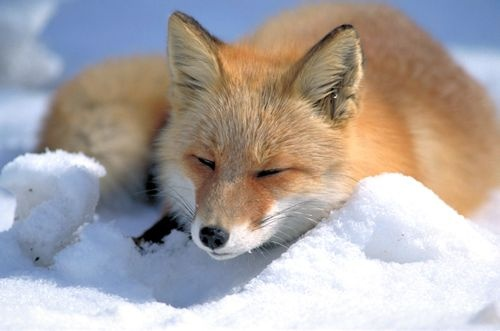
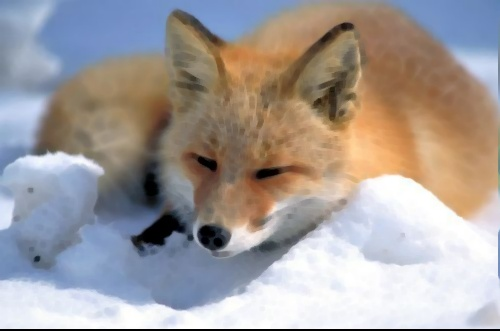
finished multi-threading!

diff --git a/ppfis.h b/ppfis.h
@@ -100,6 +100,11 @@ namespace ppfis
         int m_image_width = -1, m_image_height = -1;
 
         static void operate_per_pixel_thread(pixel* image, int image_width, void (*per_pixel_func)(pixel&), int left, int right, int top, int bottom);
+        static void operate_per_pixel_thread(mask* m, pixel* new_image, void (*per_pixel_func)(pixels&, pixel&), int left, int right, int top, int bottom);
+        template <typename ... parameters>
+        static void operate_per_pixel_thread(pixel* image, int image_width, void (*per_pixel_func)(pixel&, parameters ... params), int left, int right, int top, int bottom, parameters ... params);
+        template <typename ... parameters>
+        static void operate_per_pixel_thread(mask* m, pixel* new_image, void (*per_pixel_func)(pixels&, pixel&, parameters ... params), int left, int right, int top, int bottom, parameters ... params);
 
         friend pixels;
         friend row_pixels;
@@ -169,6 +174,41 @@ namespace ppfis
                 per_pixel_func(image[c * image_width + r]);
     }
 
+    inline void mask::operate_per_pixel_thread(mask* m, pixel* new_image, void (*per_pixel_func)(pixels&, pixel&), int left, int right, int top, int bottom)
+    {
+        pixels op;
+        op.m_mask_ptr = m;
+        for (int c = top; c < bottom; ++c)
+            for (int r = left; r < right; ++r)
+            {
+                op.m_current_column = c;
+                op.m_current_row = r;
+                per_pixel_func(op, new_image[c * m->m_image_width + r]);
+            }
+    }
+
+    template <typename ... parameters>
+    inline void mask::operate_per_pixel_thread(pixel* image, int image_width, void (*per_pixel_func)(pixel&, parameters ...), int left, int right, int top, int bottom, parameters ... params)
+    {
+        for (int c = top; c < bottom; ++c)
+            for (int r = left; r < right; ++r)
+                per_pixel_func(image[c * image_width + r], params...);
+    }
+
+    template <typename ... parameters>
+    inline void mask::operate_per_pixel_thread(mask* m, pixel* new_image, void (*per_pixel_func)(pixels&, pixel&, parameters ...), int left, int right, int top, int bottom, parameters ... params)
+    {
+        pixels op;
+        op.m_mask_ptr = m;
+        for (int c = top; c < bottom; ++c)
+            for (int r = left; r < right; ++r)
+            {
+                op.m_current_column = c;
+                op.m_current_row = r;
+                per_pixel_func(op, new_image[c * m->m_image_width + r], params...);
+            }
+    }
+
     inline mask::mask(uchar** image_ptr, int image_width, int image_height) : m_image_ptr(image_ptr), m_image_width(image_height), m_image_height(image_width)
     {
         border_left = 0;
@@ -235,15 +275,17 @@ namespace ppfis
         int bottom = std::min(std::max(border_top, border_bottom), m_image_height);
         int top = std::max(std::min(border_top, bottom), 0);
 
-        pixels op;
-        op.m_mask_ptr = this;
-        for (int c = top; c < bottom; ++c)
-            for (int r = left; r < right; ++r)
-            {
-                op.m_current_column = c;
-                op.m_current_row = r;
-                per_pixel_func(op, new_image[c * m_image_width + r]);
-            }
+        simple_thread<m_mask_maximum_thread, mask*, pixel*, void (*)(pixels&, pixel&), int, int, int, int> t(mask::operate_per_pixel_thread);
+
+        // estimate thread count
+        int concurrent_operation_count = bottom - top > m_mask_maximum_thread + 1 ? m_mask_maximum_thread + 1 : 1;
+        int height_per_thread = (bottom - top) / concurrent_operation_count;
+
+        // run threads
+        for (int i = 0; i < concurrent_operation_count - 1; ++i)
+            t.run(this, new_image, per_pixel_func, left, right, top + height_per_thread * i, top + height_per_thread * (i + 1));
+        operate_per_pixel_thread(this, new_image, per_pixel_func, left, right, top + height_per_thread * (concurrent_operation_count - 1), bottom);
+        t.wait();
 
         // copy result
         memcpy(*m_image_ptr, new_image, m_image_width * m_image_height * 3);
@@ -262,10 +304,20 @@ namespace ppfis
         int bottom = std::min(std::max(border_top, border_bottom), m_image_height);
         int top = std::max(std::min(border_top, bottom), 0);
 
-        for (int c = top; c < bottom; ++c)
-            for (int r = left; r < right; ++r)
-                per_pixel_func(reinterpret_cast<pixel*>(*m_image_ptr)[c * m_image_width + r], params...);
+        simple_thread<m_mask_maximum_thread, pixel*, int, void (*)(pixel&, parameters...), int, int, int, int, parameters ... > t(mask::operate_per_pixel_thread);
 
+        pixel* image = reinterpret_cast<pixel*>(*m_image_ptr);
+
+        // estimate thread count
+        int concurrent_operation_count = bottom - top > m_mask_maximum_thread + 1 ? m_mask_maximum_thread + 1 : 1;
+        int height_per_thread = (bottom - top) / concurrent_operation_count;
+
+        // run threads
+        for (int i = 0; i < concurrent_operation_count - 1; ++i)
+            t.run(image, m_image_width, per_pixel_func, left, right, top + height_per_thread * i, top + height_per_thread * (i + 1), params...);
+        operate_per_pixel_thread(image, m_image_width, per_pixel_func, left, right, top + height_per_thread * (concurrent_operation_count - 1), bottom, params...);
+
+        t.wait();
         return true;
     }
 
@@ -284,15 +336,18 @@ namespace ppfis
         int bottom = std::min(std::max(border_top, border_bottom), m_image_height);
         int top = std::max(std::min(border_top, bottom), 0);
 
-        pixels op;
-        op.m_mask_ptr = this;
-        for (int c = top; c < bottom; ++c)
-            for (int r = left; r < right; ++r)
-            {
-                op.m_current_column = c;
-                op.m_current_row = r;
-                per_pixel_func(op, new_image[c * m_image_width + r], params...);
-            }
+        simple_thread<m_mask_maximum_thread, mask*, pixel*, void (*)(pixels&, pixel&, parameters...), int, int, int, int, parameters ... > t(mask::operate_per_pixel_thread);
+
+        // estimate thread count
+        int concurrent_operation_count = bottom - top > m_mask_maximum_thread + 1 ? m_mask_maximum_thread + 1 : 1;
+        int height_per_thread = (bottom - top) / concurrent_operation_count;
+
+        // run threads
+        for (int i = 0; i < concurrent_operation_count - 1; ++i)
+            t.run(this, new_image, per_pixel_func, left, right, top + height_per_thread * i, top + height_per_thread * (i + 1), params...);
+        operate_per_pixel_thread(this, new_image, per_pixel_func, left, right, top + height_per_thread * (concurrent_operation_count - 1), bottom, params...);
+
+        t.wait();
 
         // copy result
         memcpy(*m_image_ptr, new_image, m_image_width * m_image_height * 3);
@@ -406,18 +461,12 @@ namespace ppfis
             int x = 0;
             for (int row = -1; row < 2; row++)
                 for (int col = -1; col < 2; col++)
-                {
-                    const pixel& p = op.at(row, col);
-                    x += filter[row+1] * col * p.r;
-                }
+                    x += filter[row+1] * col * op.at(row, col).r;
 
             int y = 0;
             for (int row = -1; row < 2; row++)
                 for (int col = -1; col < 2; col++)
-                {
-                    const pixel& p = op.at(row, col);
-                    y += filter[col+1] * row * p.r;
-                }
+                    y += filter[col+1] * row * op.at(row, col).r;
             
             np = sqrt(x * x + y * y);
         });

diff --git a/main.cpp b/main.cpp
@@ -45,7 +45,7 @@ int main(int argc, char** argv)
 void built_in_function_examples(mask& m)
 {
     m.set_relative_border(0,0,0,0);
-    sobel_operator(m);
+    median_filter(m, 5);
 }
 
 void simple_thread_exmaples()
